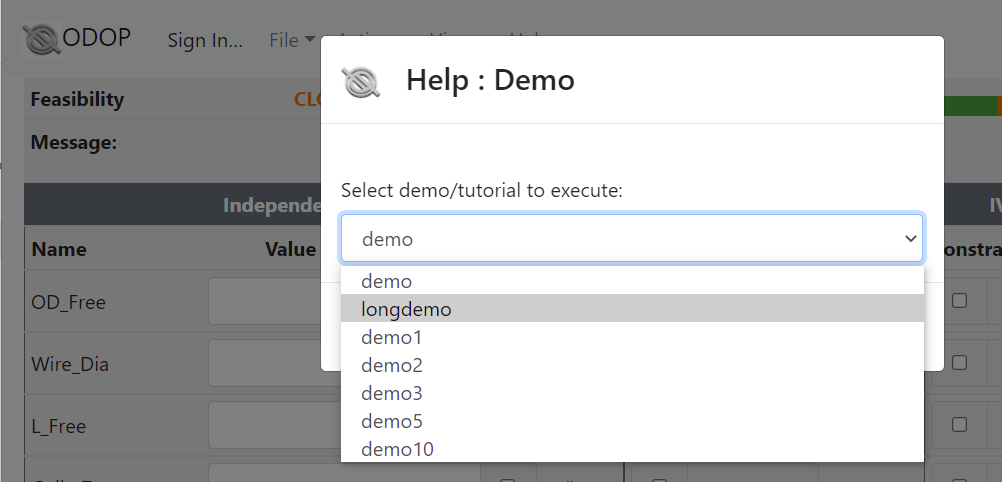
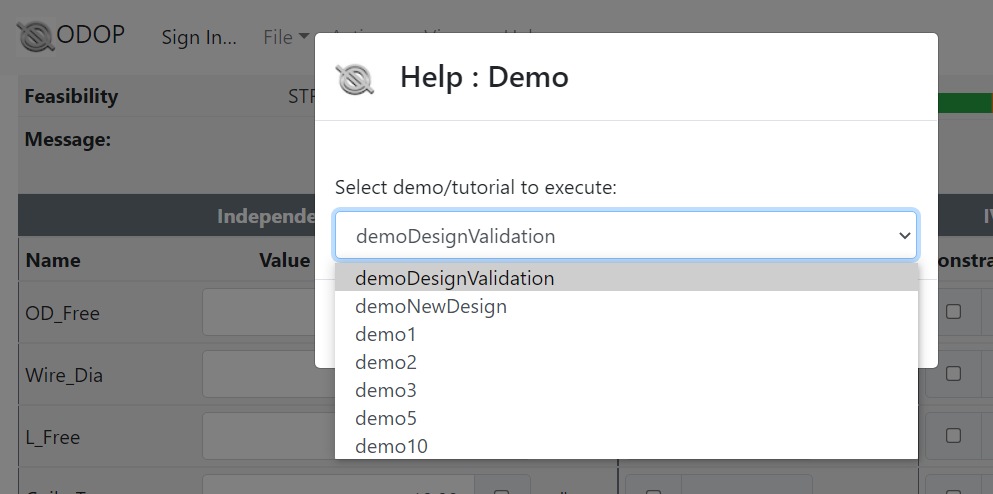
562  Exec, Demo & Tutor improvements for version 4.0.4
changes cascading from renames

diff --git a/client/src/designtypes/Spring/Compression/demoDesignValidation.js b/client/src/designtypes/Spring/Compression/demoDesignValidation.js
@@ -9,8 +9,12 @@ export const execute = {
             text: (
                 <React.Fragment>
                     <p>
-                    The following example illustrates the use of ODOP:Spring to check
+                    The following example illustrates the use of ODOP:Spring to validate 
                     the design of a compression spring. 
+                    Also known as "design check", this is a straightforward calculation of 
+                    stresses and other figures of merit for a design with known
+                    wire diameter, coil diameter, number of coils, free length and 
+                    applied loads or deflections. 
                     </p>
                     
                     <p> 
@@ -233,7 +237,7 @@ export const execute = {
                     <p>
                     The next demonstration problem provides a more 
                     detailed example of spring design from original specifications.  
-                    Select "longdemo" from the <b>Help : Demo...</b> menu item.
+                    Select "demoNewDesign" from the <b>Help : Demo...</b> menu item.
                     </p>
                     
                     <p>

diff --git a/client/src/designtypes/Spring/Compression/demoNewDesign.js b/client/src/designtypes/Spring/Compression/demoNewDesign.js
@@ -208,7 +208,7 @@ export const execute = {
                 </React.Fragment>
             ),
             actions: [
-                logUsage('event','longdemo', { 'event_label': 'Page 09 of 14' }),
+                logUsage('event','demoNewDesign', { 'event_label': 'Page 09 of 14' }),
                 search()
             ]
         },
@@ -297,7 +297,7 @@ export const execute = {
                 </React.Fragment>
             ),
             actions: [
-                logUsage('event','longdemo', { 'event_label': 'Page 12 of 14' }),
+                logUsage('event','demoNewDesign', { 'event_label': 'Page 12 of 14' }),
                 search()
             ]
         },

diff --git a/client/src/designtypes/Spring/Extension/demo6.js b/client/src/designtypes/Spring/Extension/demo6.js
@@ -22,7 +22,7 @@ export const execute = {
                     This demo session is written with the assumption that the reader is already familiar with 
                     basic ODOP concepts and terminology.
                     To get a more introductory experience, 
-                    the compression spring demo sessions named "demo" and "longdemo" are a good place to get started. 
+                    the compression spring demo sessions named "demoDesignValidation" and "demoNewDesign" are a good place to get started. 
                     </p>
                     
                     <p>

diff --git a/client/src/designtypes/Spring/Torsion/demo14.js b/client/src/designtypes/Spring/Torsion/demo14.js
@@ -18,7 +18,7 @@ export const execute = {
                     This demo session is written with the assumption that the reader is already familiar with 
                     basic ODOP concepts and terminology.
                     To get a more introductory experience, 
-                    the compression spring demo sessions named "demo" and "longdemo" are a good place to get started. 
+                    the compression spring demo sessions named "demoDesignValidation" and "demoNewDesign" are a good place to get started. 
                     </p>
                     
                     <p>

diff --git a/docs/Help/tutordemo.md b/docs/Help/tutordemo.md
@@ -61,8 +61,8 @@ tutor9 |   | Preferences (internal variables) and Properties (notes saved with d
 
 Name | Description | &nbsp;  
 --- | --- | ---  
-demo | Introduction, simple design check (design validation) problem |    
-longdemo | Design a compression spring from original specifications |  
+demoDesignValidation | Introduction, simple design validation (design check) problem |    
+demoNewDesign | Design a compression spring from original specifications |  
 demo1 | Spring Mfgrs. Inst. Handbook | compression spring example&nbsp;1    
 demo2 | Spring Mfgrs. Inst. Handbook | compression spring example&nbsp;2  
 demo3 | major spring mfgr design handbook | compression spring example  

diff --git a/docs/Help/gettingStartedSpring.md b/docs/Help/gettingStartedSpring.md
@@ -59,7 +59,7 @@ Use the **Help : Demo...** menu item to select the desired demo session.
 
 ![Select Spring Demo](./png/SelectSpringDemo.png "[Select Spring Demo")   
    
-The spring demo sessions named **demo** and **longdemo** are recommended as a good
+The spring demo sessions named **demoDesignValidation** and **demoNewDesign** are recommended as a good
 starting point for new users.   
 
 &nbsp;
